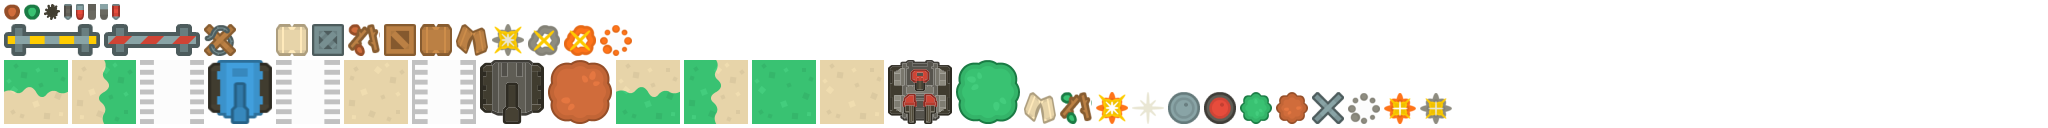
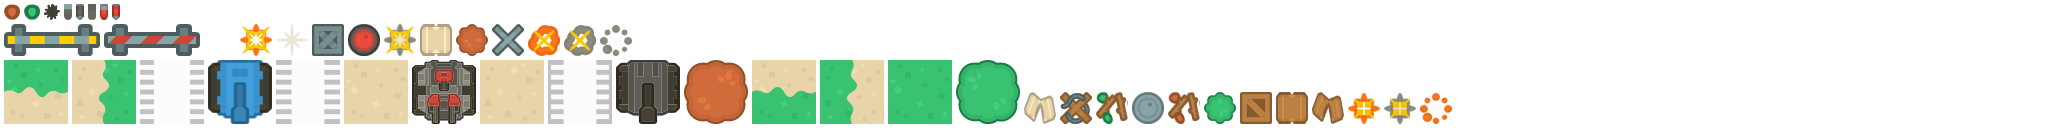
loading the crate boom animation from atlas sheet

diff --git a/core/assets/tanks.tsx b/core/assets/tanks.tsx
@@ -1,5 +1,5 @@
 <?xml version="1.0" encoding="UTF-8"?>
-<tileset name="tanks" tilewidth="96" tileheight="64" tilecount="46" columns="7">
+<tileset name="tanks" tilewidth="96" tileheight="64" tilecount="36" columns="7">
  <grid orientation="orthogonal" width="1" height="1"/>
  <tile id="0">
   <image width="32" height="32" source="kenney_tank_images/barrelBlack_top_32x32.png"/>
@@ -30,36 +30,6 @@
  </tile>
  <tile id="9">
   <image width="32" height="32" source="kenney_tank_images/crateMetal_32x32.png"/>
- </tile>
- <tile id="10">
-  <image width="32" height="32" source="kenney_tank_images/explosion1_32x32.png"/>
- </tile>
- <tile id="11">
-  <image width="32" height="31" source="kenney_tank_images/explosion2_32x32.png"/>
- </tile>
- <tile id="12">
-  <image width="32" height="32" source="kenney_tank_images/explosion3_32x32.png"/>
- </tile>
- <tile id="13">
-  <image width="32" height="31" source="kenney_tank_images/explosion4_32x32.png"/>
- </tile>
- <tile id="14">
-  <image width="32" height="31" source="kenney_tank_images/explosion5_32x32.png"/>
- </tile>
- <tile id="15">
-  <image width="32" height="32" source="kenney_tank_images/explosion6_32x32.png"/>
- </tile>
- <tile id="16">
-  <image width="32" height="31" source="kenney_tank_images/explosion7_32x32.png"/>
- </tile>
- <tile id="17">
-  <image width="32" height="32" source="kenney_tank_images/explosion8_32x32.png"/>
- </tile>
- <tile id="18">
-  <image width="32" height="31" source="kenney_tank_images/explosion9_32x32.png"/>
- </tile>
- <tile id="19">
-  <image width="32" height="31" source="kenney_tank_images/explosion10_32x32.png"/>
  </tile>
  <tile id="20">
   <image width="96" height="32" source="kenney_tank_images/fenceRed_96x32.png"/>

diff --git a/core/src/me/battleblast/animations/SmallBoomAnimation.java b/core/src/me/battleblast/animations/SmallBoomAnimation.java
@@ -5,22 +5,41 @@ import com.badlogic.gdx.graphics.g2d.Animation;
 import com.badlogic.gdx.graphics.g2d.Animation.PlayMode;
 import com.badlogic.gdx.graphics.g2d.SpriteBatch;
 import com.badlogic.gdx.graphics.g2d.TextureAtlas;
+import com.badlogic.gdx.graphics.g2d.TextureAtlas.AtlasRegion;
 import com.badlogic.gdx.graphics.g2d.TextureRegion;
+import com.badlogic.gdx.utils.Array;
+
+import me.battleblast.BattleBlast;
 
 
 public class SmallBoomAnimation extends BaseAnimation {
     private float x;
     private float y;
     private float elapsedTime = 0f;
-    private TextureAtlas boomAtlas;
     private float ANIMATION_FRAME_DURATION = 1/60f;
     private Animation<TextureRegion> animation;
+    private static Array<TextureAtlas.AtlasRegion> animationRegions;
 
     public SmallBoomAnimation(float x, float y) {
         this.x = x;
         this.y = y;
-        boomAtlas = new TextureAtlas(Gdx.files.internal("kenney_booms/booms2.atlas"));
-        animation = new Animation<TextureRegion>(ANIMATION_FRAME_DURATION, boomAtlas.getRegions());
+        animation = new Animation<TextureRegion>(ANIMATION_FRAME_DURATION, SmallBoomAnimation.cachedAnimationRegions());
+    }
+
+    /*
+     * The documentation of TextureAtlas.findRegions() says:
+     * ```
+     * This method uses string comparison...so the result should be cached
+     * rather than calling this method multiple times
+     * ```
+     * So this is why we do the whole `private static` acrobatics - for
+     * caching it once and forever (because we make MANY instances of this class)
+     */
+    private static Array<AtlasRegion> cachedAnimationRegions() {
+        if (SmallBoomAnimation.animationRegions == null) {
+            SmallBoomAnimation.animationRegions = BattleBlast.getAtlas().findRegions("boomSmall");
+        }
+        return SmallBoomAnimation.animationRegions;
     }
 
     @Override
@@ -32,11 +51,5 @@ public class SmallBoomAnimation extends BaseAnimation {
     public void draw(SpriteBatch batch) {
         elapsedTime += Gdx.graphics.getDeltaTime();
         batch.draw(animation.getKeyFrame(elapsedTime), x, y);
-    }
-
-    // TODO - see how to use the assetManager to avoid this disposal
-    @Override
-    public void dispose() {
-        boomAtlas.dispose();
     }
 }

diff --git a/core/src/me/battleblast/screens/GameScreen.java b/core/src/me/battleblast/screens/GameScreen.java
@@ -258,7 +258,6 @@ public class GameScreen implements Screen {
         for (Iterator<BaseAnimation> i = animations.iterator(); i.hasNext(); ) {
             BaseAnimation animation = i.next();
             if (animation.isOver()) {
-                animation.dispose();
                 i.remove();
             } else {
                 animation.draw(game.batch);

diff --git a/core/src/me/battleblast/animations/SmallSparksAnimation.java b/core/src/me/battleblast/animations/SmallSparksAnimation.java
@@ -31,7 +31,4 @@ public class SmallSparksAnimation extends BaseAnimation {
         animation.update(Gdx.graphics.getDeltaTime());
         animation.draw(batch);
     }
-
-    @Override
-    public void dispose() {}
 }

diff --git a/core/src/me/battleblast/animations/BaseAnimation.java b/core/src/me/battleblast/animations/BaseAnimation.java
@@ -7,6 +7,4 @@ public abstract class BaseAnimation {
     public abstract boolean isOver(); 
 
     public abstract void draw(SpriteBatch batch);
-
-    public abstract void dispose();
 }
